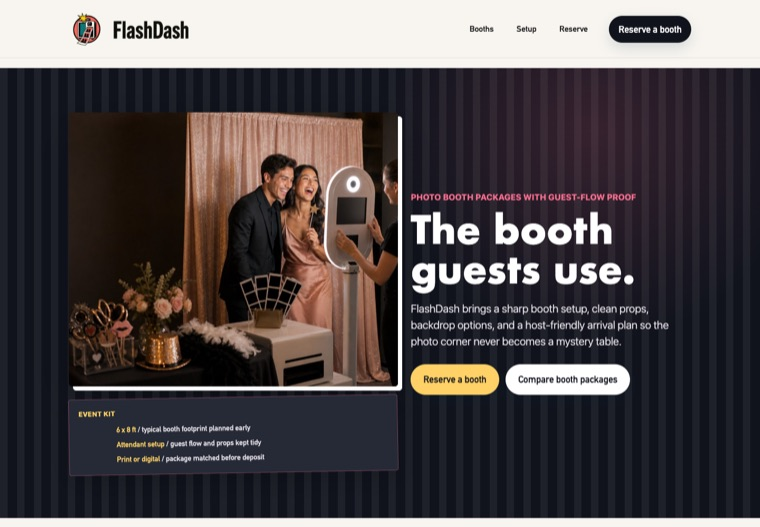
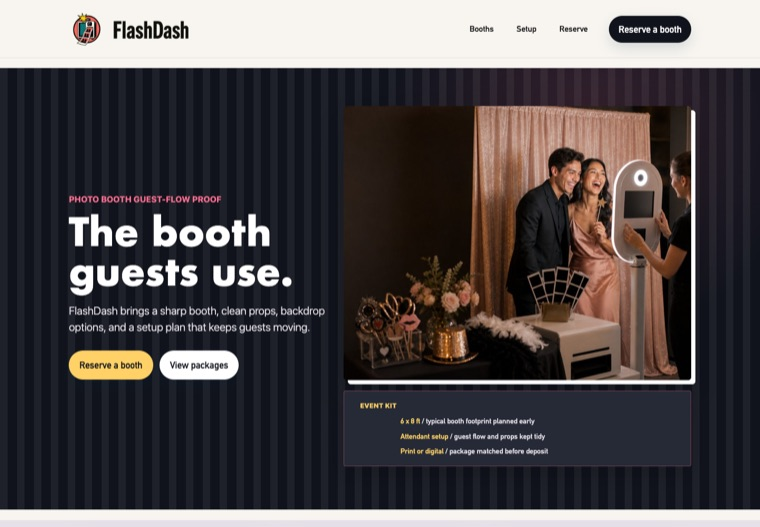
Polish photo booth blueprint

diff --git a/docs/index.html b/docs/index.html
@@ -981,14 +981,14 @@
         </ul>
         <p class="hero-note">Use it like a meeting artifact: point at a niche, launch the site, show the proof trail, and make the next production lane feel obvious.</p>
         <div class="actions">
-          <a class="button primary" href="https://playground.wordpress.net/?blueprint-url=https%3A%2F%2Fraw.githubusercontent.com%2FRegionallyFamous%2FSite-O-Mattic%2Fmain%2Fpublic%2Fblueprints%2Fmicro-wedding-florals%2Fblueprint.json" aria-label="Open VowSprig Florals in WordPress Playground">Open featured demo</a>
+          <a class="button primary" href="https://playground.wordpress.net/?blueprint-url=https%3A%2F%2Fraw.githubusercontent.com%2FRegionallyFamous%2FSite-O-Mattic%2Fmain%2Fpublic%2Fblueprints%2Fphoto-booth-rental%2Fblueprint.json" aria-label="Open FlashDash Photo Booth in WordPress Playground">Open featured demo</a>
           <a class="button" href="#catalog">Browse screenshot wall</a>
         </div>
       </div>
       <aside class="hero-ticket" aria-label="90-second meeting script">
         <p class="eyebrow">90-second room script</p>
         <h2>Open the site. Show the receipts. Ask for the lane.</h2>
-        <img class="ticket-shot" src="previews/micro-wedding-florals-desktop.png" alt="Screenshot of the featured VowSprig Florals demo" loading="eager">
+        <img class="ticket-shot" src="previews/photo-booth-rental-desktop.png" alt="Screenshot of the featured FlashDash Photo Booth demo" loading="eager">
         <ol class="ticket-list">
           <li><strong>1</strong><span>Pick a niche the room understands instantly.</span></li>
           <li><strong>2</strong><span>Launch the live Playground site.</span></li>
@@ -998,9 +998,9 @@
         <p class="ticket-ask">Ask: fund the next lane of inspectable WordPress sales demos.</p>
       </aside>
       <nav class="hero-shelf" aria-label="Featured live demo screenshots">
-        <a href="https://playground.wordpress.net/?blueprint-url=https%3A%2F%2Fraw.githubusercontent.com%2FRegionallyFamous%2FSite-O-Mattic%2Fmain%2Fpublic%2Fblueprints%2Fmicro-wedding-florals%2Fblueprint.json" aria-label="Open VowSprig Florals live demo in WordPress Playground">
-          <img src="catalog-assets/micro-wedding-florals-screenshot.jpg" alt="" loading="eager">
-          <span>VowSprig Florals</span>
+        <a href="https://playground.wordpress.net/?blueprint-url=https%3A%2F%2Fraw.githubusercontent.com%2FRegionallyFamous%2FSite-O-Mattic%2Fmain%2Fpublic%2Fblueprints%2Fphoto-booth-rental%2Fblueprint.json" aria-label="Open FlashDash Photo Booth live demo in WordPress Playground">
+          <img src="catalog-assets/photo-booth-rental-screenshot.jpg" alt="" loading="eager">
+          <span>FlashDash Photo Booth</span>
         </a>
         <a href="https://playground.wordpress.net/?blueprint-url=https%3A%2F%2Fraw.githubusercontent.com%2FRegionallyFamous%2FSite-O-Mattic%2Fmain%2Fpublic%2Fblueprints%2Fgarage-organization%2Fblueprint.json" aria-label="Open GridNest Garage live demo in WordPress Playground">
           <img src="catalog-assets/garage-organization-screenshot.jpg" alt="" loading="eager">
@@ -1042,18 +1042,18 @@
     </section>
 
     <section class="latest" aria-labelledby="featured-heading">
-      <a class="latest-preview" href="https://playground.wordpress.net/?blueprint-url=https%3A%2F%2Fraw.githubusercontent.com%2FRegionallyFamous%2FSite-O-Mattic%2Fmain%2Fpublic%2Fblueprints%2Fmicro-wedding-florals%2Fblueprint.json" aria-label="Open VowSprig Florals in WordPress Playground">
-        <img class="desktop-shot" src="previews/micro-wedding-florals-desktop.png" alt="VowSprig Florals desktop preview" loading="eager">
-        <img class="mobile-shot" src="previews/micro-wedding-florals-mobile-390.png" alt="VowSprig Florals mobile preview" loading="eager">
+      <a class="latest-preview" href="https://playground.wordpress.net/?blueprint-url=https%3A%2F%2Fraw.githubusercontent.com%2FRegionallyFamous%2FSite-O-Mattic%2Fmain%2Fpublic%2Fblueprints%2Fphoto-booth-rental%2Fblueprint.json" aria-label="Open FlashDash Photo Booth in WordPress Playground">
+        <img class="desktop-shot" src="previews/photo-booth-rental-desktop.png" alt="FlashDash Photo Booth desktop preview" loading="eager">
+        <img class="mobile-shot" src="previews/photo-booth-rental-mobile-390.png" alt="FlashDash Photo Booth mobile preview" loading="eager">
       </a>
       <div>
         <p class="eyebrow">Featured proof</p>
-        <h2 id="featured-heading">VowSprig Florals</h2>
-        <p>VowSprig shapes bouquets, personals, bud vases, and small ceremony moments into a clear palette, setup plan, and floral scope that fits intimate celebrations.</p>
+        <h2 id="featured-heading">FlashDash Photo Booth</h2>
+        <p>FlashDash brings a sharp booth, clean props, backdrop options, and a setup plan that keeps guests moving.</p>
         <div class="actions">
-          <a class="button primary" href="https://playground.wordpress.net/?blueprint-url=https%3A%2F%2Fraw.githubusercontent.com%2FRegionallyFamous%2FSite-O-Mattic%2Fmain%2Fpublic%2Fblueprints%2Fmicro-wedding-florals%2Fblueprint.json" aria-label="Launch VowSprig Florals in WordPress Playground">Launch in Playground</a>
-          <a class="button" href="https://raw.githubusercontent.com/RegionallyFamous/Site-O-Mattic/main/public/blueprints/micro-wedding-florals/blueprint.json" aria-label="Open VowSprig Florals Blueprint JSON">Blueprint JSON</a>
-          <a class="button" href="https://raw.githubusercontent.com/RegionallyFamous/Site-O-Mattic/main/public/blueprints/micro-wedding-florals/micro-wedding-florals-blueprint.zip" aria-label="Download VowSprig Florals Blueprint ZIP">Download ZIP</a>
+          <a class="button primary" href="https://playground.wordpress.net/?blueprint-url=https%3A%2F%2Fraw.githubusercontent.com%2FRegionallyFamous%2FSite-O-Mattic%2Fmain%2Fpublic%2Fblueprints%2Fphoto-booth-rental%2Fblueprint.json" aria-label="Launch FlashDash Photo Booth in WordPress Playground">Launch in Playground</a>
+          <a class="button" href="https://raw.githubusercontent.com/RegionallyFamous/Site-O-Mattic/main/public/blueprints/photo-booth-rental/blueprint.json" aria-label="Open FlashDash Photo Booth Blueprint JSON">Blueprint JSON</a>
+          <a class="button" href="https://raw.githubusercontent.com/RegionallyFamous/Site-O-Mattic/main/public/blueprints/photo-booth-rental/photo-booth-rental-blueprint.zip" aria-label="Download FlashDash Photo Booth Blueprint ZIP">Download ZIP</a>
         </div>
       </div>
     </section>
@@ -1672,7 +1672,7 @@
           <div class="signals"><span class="signal">Visual sweep OK</span><span class="signal">CTA: Reserve a booth</span></div>
           <h2 id="card-photo-booth-rental-title">FlashDash Photo Booth</h2>
           <p class="card-kicker">Photo Booth Rental Service sales demo</p>
-          <p class="card-summary"><strong>Pitch angle:</strong> FlashDash brings a sharp booth setup, clean props, backdrop options, and a host-friendly arrival plan so the photo corner never becomes a mystery table.</p>
+          <p class="card-summary"><strong>Pitch angle:</strong> FlashDash brings a sharp booth, clean props, backdrop options, and a setup plan that keeps guests moving.</p>
           <div class="links" role="group" aria-label="FlashDash Photo Booth links">
             <a href="https://playground.wordpress.net/?blueprint-url=https%3A%2F%2Fraw.githubusercontent.com%2FRegionallyFamous%2FSite-O-Mattic%2Fmain%2Fpublic%2Fblueprints%2Fphoto-booth-rental%2Fblueprint.json" aria-label="Launch FlashDash Photo Booth in WordPress Playground">Launch Playground</a>
             <a href="https://raw.githubusercontent.com/RegionallyFamous/Site-O-Mattic/main/public/blueprints/photo-booth-rental/blueprint.json" aria-label="Open FlashDash Photo Booth Blueprint JSON">JSON</a>
@@ -2009,7 +2009,7 @@
     </details>
 
     <footer>
-      Generated 2026-06-28T02:26:42Z from RegionallyFamous/Site-O-Mattic on main.
+      Generated 2026-06-28T02:54:16Z from RegionallyFamous/Site-O-Mattic on main.
     </footer>
   </main>
 </body>

diff --git a/app/blueprint-catalog.ts b/app/blueprint-catalog.ts
@@ -379,7 +379,7 @@ export const blueprints = [
     "slug": "photo-booth-rental",
     "name": "FlashDash Photo Booth",
     "eyebrow": "Photo Booth Rental Service",
-    "summary": "FlashDash brings a sharp booth setup, clean props, backdrop options, and a host-friendly arrival plan so the photo corner never becomes a mystery table.",
+    "summary": "FlashDash brings a sharp booth, clean props, backdrop options, and a setup plan that keeps guests moving.",
     "logo": "/blueprints/photo-booth-rental/assets/logo.png",
     "logoWidth": 1000,
     "logoHeight": 300,

diff --git a/docs/taste-layer-backlog.md b/docs/taste-layer-backlog.md
@@ -53,6 +53,7 @@ Taste warnings are also directional while thresholds are calibrated. They should
 
 ## Next Composition Queue
 
+- Resolved on 2026-06-27: `photo-booth-rental` got a Codex/subagent taste pass instead of a metric-only lean cleanup. The page keeps the fixed mobile reserve dock and core Columns/Image/Buttons/Table/Details structure, but desktop now reads as a booth package sidecar instead of the old deck-like image-left split shell. Booth-specific hero padding, column ratio, CTA padding, ticket radius, package rails, and dock padding moved into generated block attributes/inline block styles; avoidable booth CSS overrides for row reversal, ticket rotation, mobile H1/button compression, and dock padding were removed. Copy was shortened to fit mobile naturally. Focused lean score improved from 38 to 28, and the focused booth/deck visual sweep passed 2/2 with 0 taste warnings while distance improved from 51 to 404.
 - Resolved on 2026-06-27: `gutter-cleaning` moved away from the `window-cleaning` split-service silhouette with a Codex/subagent taste pass. The fix stayed block-first: the risk-prevention hero now uses a core Cover with a storm-check `core/list` board, compact core Columns proof/status strip, lower service-area note, 8px panel radii, and the concrete `Clear clogged gutters` CTA. Two independent reviewers both recommended making gutter a warning/checklist page; visual inspection confirms desktop now reads as storm-prep prevention while window remains airy and quote-led. Focused gutter/window sweep passed 2/2 with 0 taste warnings and distance improved from 42 to 668. The full sweep passed 35/35 with 0 failures and 0 taste warnings, and gutter/window is no longer in the closest-neighbor list.
 - Resolved on 2026-06-27: `pet-portrait-photography` got a Codex/subagent taste pass instead of a code-only pass. The page keeps the existing core Image/Columns/Buttons/Gallery flow, but now has a calmer portrait-studio type system, clearer `Book a session` / `View packages` CTA hierarchy, `Book` nav label, more local first-viewport copy, a tighter dog crop, softer proof note, and more block-owned hero markup. Several pet-specific choices moved from CSS overrides into block attributes/styles, dropping the focused lean report from `important-heavy` to no flags while the focused visual sweep passed 1/1 with 0 taste warnings.
 - Resolved on 2026-06-26: `carpet-upholstery-cleaning` moved away from `driveway-sealcoating` with a block-first fabric-care hero instead of a color or CSS rescue. The fix keeps core Columns/Image/Buttons/List/Details, adds a real first-screen `core/list` care board, reverses the desktop media/copy rhythm only above the tablet breakpoint, softens source typography weights, and brings the stain/proof/process card radii back to the 8px contract. Focused carpet/driveway sweep passed 2/2 with 0 failures and 0 taste warnings; distance improved from 37 to 502. The full visual sweep is now 35/35 with 0 failures and 2 remaining nearest-neighbor taste warnings, both from the solar/window receipt-family pair.